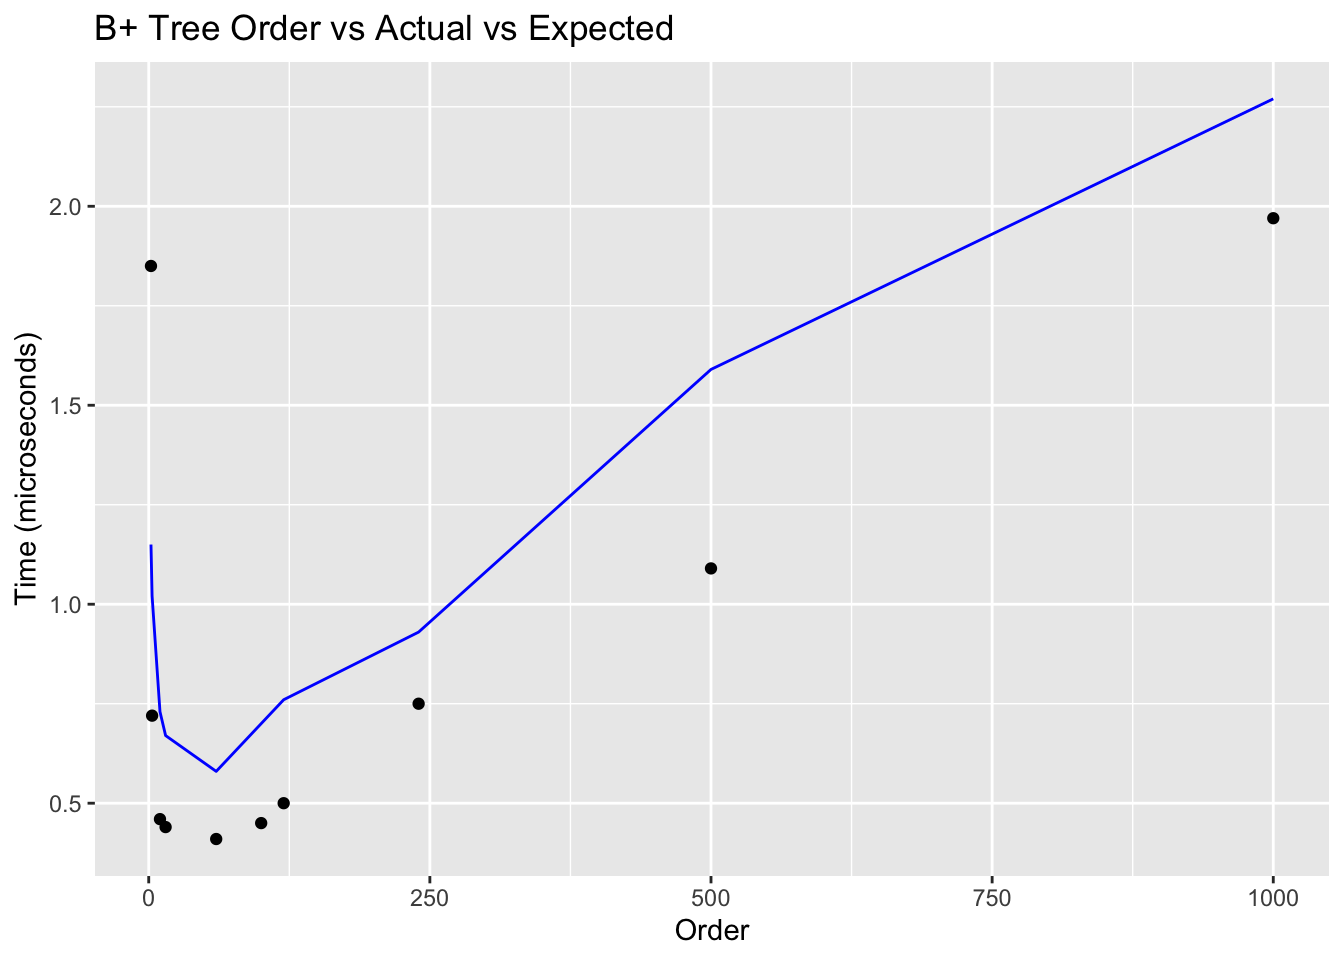
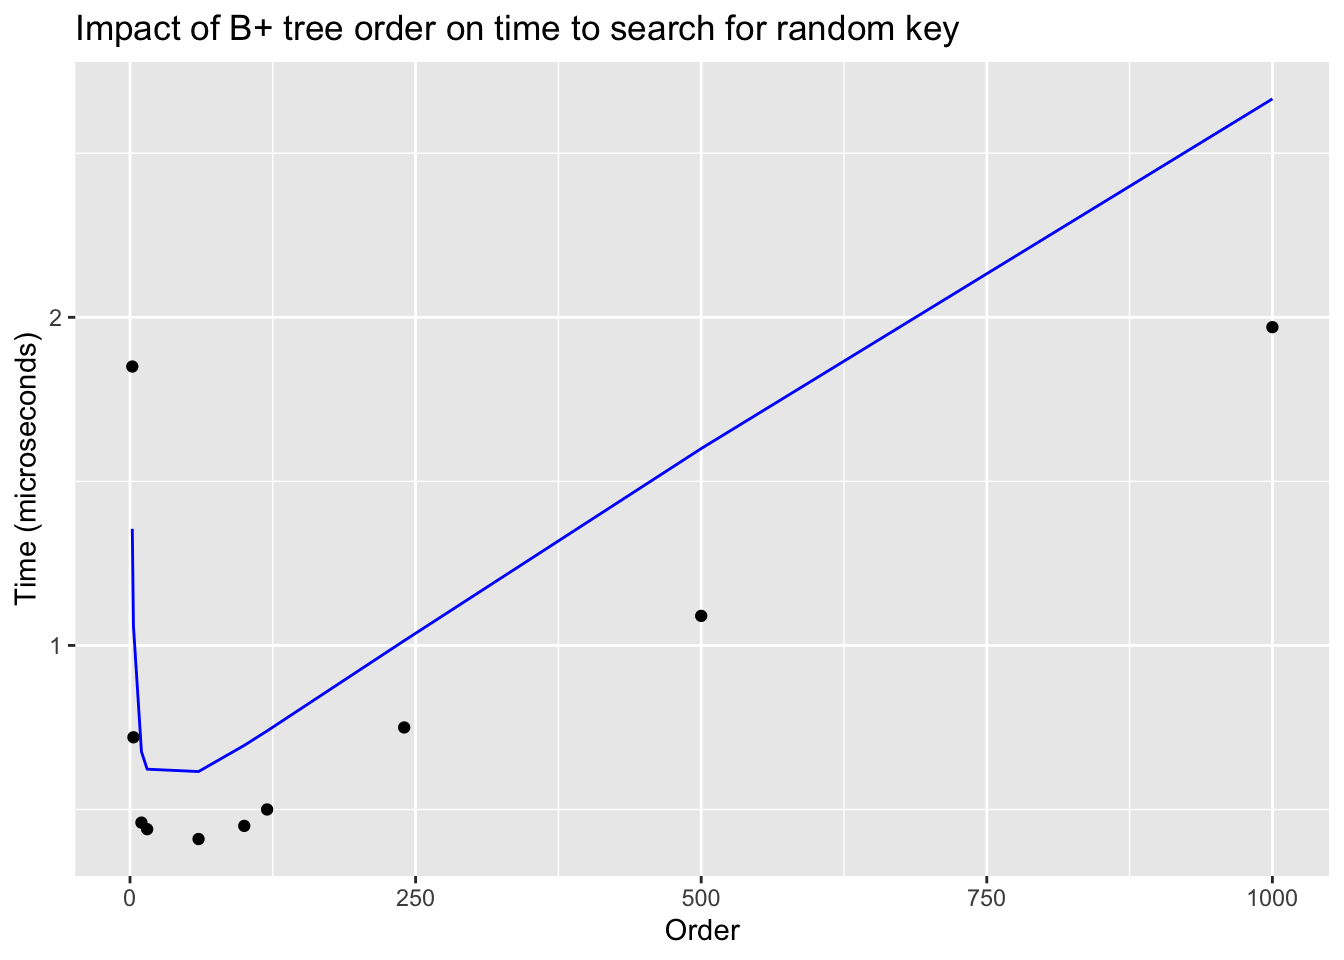
save

diff --git a/content/blog/2025-01-06-cpu-cache-napkin-math/index.html b/content/blog/2025-01-06-cpu-cache-napkin-math/index.html
@@ -28,7 +28,7 @@ output:
 <ul>
 <li><a href="#false-sharing-benchmark" id="toc-false-sharing-benchmark">false sharing benchmark</a></li>
 </ul></li>
-<li><a href="#b-tree-order-tuning" id="toc-b-tree-order-tuning">B+ Tree order tuning</a></li>
+<li><a href="#b-tree-order-tuning" id="toc-b-tree-order-tuning">B+ Tree Order Tuning</a></li>
 </ul>
 </div>
 
@@ -351,50 +351,97 @@ Difference: 0.013884 seconds</code></pre>
 </div>
 </div>
 <div id="b-tree-order-tuning" class="section level2">
-<h2>B+ Tree order tuning</h2>
+<h2>B+ Tree Order Tuning</h2>
 <p>B+ trees are a fun test-bed to study cache performance
-because they combine random and sequential access patterns.
-Within a node, keys are stored in sorted order and scanned sequentially.
-Each node also has pointers to child nodes, which require a random access
-to follow.</p>
-<p>Check out <a href="https://cs186berkeley.net/notes/note4/">this resource</a>
-for more details on the properties and implementation of B+ trees.</p>
-<p>For our purposes, let’s find the order with the optimal search performance
-for a B+ tree with 1,000,000 keys.
-The minimum number of keys in a node is called the order of the B+ tree
-(the max is 2 times the order).</p>
+because they combine sequential and random access patterns.
+If you aren’t familar with B+ trees, check out <a href="https://cs186berkeley.net/notes/note4/">this resource</a></p>
+<p>Let’s take search: say we want to find the key 55.
+Within a node, keys are already sorted and the algorithm
+scans sequentially until the first key greater than 55 is found
+(blue arrow).
+At that point, we follow the child pointer, which likely requires
+a random memory access (green arrow), and it starts scanning again.</p>
+<p><img src="bptree.svg" /></p>
+<p>This B+ tree has order 9: that’s the maximum number of keys
+in a node. Adjusting this parameter changes the height of the tree,
+and the number of keys we have to scan through. A B+ tree of order 1
+is like a binary search tree and one with infinite order is an array
+(if you like thinking about extremes).</p>
+<p>Sequential access and comparsion is fast:
+the next key is likely to be in the cache and
+there’s only a single integer comparsion per key
+I’ll estimate this to take about 1ns per key.</p>
 <blockquote>
-<p>Note: This is not necessarily something you’d do in real life.
-For starters, B+ trees might not even be stored in memory:
-they could stored on disk with access managed by a buffer pool.
-Also, the purpose of a B+ is to be effective at searches, inserts,
-deletes, and scans. Searching is only one of them, so you
-wouldn’t want to over-optimize it.</p>
+<p>There are some exciting mechanisms behind the scenes
+that make sequential access fast.
+For example, one thing that might limit sequential scan
+speeds is fetching the next cache line.<br />
+After scanning through 64 bytes, the CPU must fetch the
+next line, which might be in main memory.
+So you might think you need to add 100ns per 64 bytes processed.
+Fortunately, modern CPUs have a cache prefetcher that can predict
+the next line and fetch it before it is needed,
+making the 1ns per key estimate a good one.</p>
 </blockquote>
-<p>Let’s say we have a B+ tree with 1,000,000 keys. Let’s estimate the number of
-random accesses. Let <span class="math inline">\(b\)</span> be the order.</p>
+<p>Following a pointer is expensive.
+&gt; Likewise, if you are scanning across many pages, you might cause
+&gt; another type of cache miss in the Translation Lookaside Buffer (TLB),
+&gt; which could cause another 3-4 main memory loads.
+&gt; In practice, modern CPUs have a cache prefetcher that can predict
+&gt; the next line and fetch it before it is needed. CPUs are very good at
+&gt; sequential data access, so I’ll stick with 1ns per key for now.</p>
+<p>Following a pointer is expensive.
+The pointer’s data is unlikely to be in the cache,
+so the the data will have to be fetched from main memory.
+I’ll estimate the time to load a pointer’s data to be 100ns.</p>
+<p>Even though following pointers are expensive,
+the total number of pointers we have to follow is
+always “small”.
+1 trillion keys have less than 30 levels, regardless of the order.
+Finding any key in that situation would only take about
+30 * 100ns = 3 microseconds.</p>
+<p>This creates a trade-off: if we have a small order,
+the total number of instructions are smaller, but we have to
+follow more pointers.
+On the other hand, sequential scanning adds up:
+it would take 16 minutes to scan 1 trillion keys.</p>
+<p>For fun let’s estimate the optimal order for a B+ tree with 100,000,000 keys,
+and then compare it to a benchmark I ran on on my M3 Macbook Air.</p>
+<blockquote>
+<p>This analysis focuses on in-memory search performance to isolate and understand cache
+and random access performance. In the real-world, B+ trees
+do a lot more than search, which is why they are such a useful
+data structure: they balance efficienct search, insertion, and deletion
+and work well with computer architecture.</p>
+</blockquote>
+<p>Let’s say we have a B+ tree with 100,000,000 keys.
+If we let <span class="math inline">\(b\)</span> be the order, then we can estiamte
+the time to search for a random key as follows:</p>
 <p><span class="math display">\[
 \begin{align*}
-\text{Height} &amp;= \log_{2b}(1,000,000) \\
-\text{Time} &amp;= (\text{Height} \times \text{pointer_chase_cost}) + (\text{Height} \times b \times \text{comparison_cost})
+\text{Height} &amp;= \log_{b}(100{,}000{,}000) \\
+\text{Time} &amp;= (\text{Height} \times \text{pointer_chase_cost}) + (\text{Height} \times b / 2 \times \text{comparison_cost})
 \end{align*}
 \]</span></p>
-<p>I implemented a subset of the B+ tree data structure in C
-<a href="https://github.com/tmastny/cache/tree/main/bptree">here</a>.</p>
-<p>I wanted to see how the order of the B+ tree affected the
-search performance.</p>
-<pre><code>## # A tibble: 10 × 5
-##    order actual expected height  time
-##    &lt;dbl&gt;  &lt;dbl&gt;    &lt;dbl&gt;  &lt;dbl&gt; &lt;dbl&gt;
-##  1     2   1.85     1.15   9.97 1.02 
-##  2     3   0.72     1.02   7.71 0.794
-##  3    10   0.46     0.73   4.61 0.507
-##  4    15   0.44     0.67   4.06 0.467
-##  5    60   0.41     0.58   2.89 0.462
-##  6   100   0.45     0.7    2.61 0.522
-##  7   120   0.5      0.76   2.52 0.555
-##  8   240   0.75     0.93   2.24 0.761
-##  9   500   1.09     1.59   2    1.2  
-## 10  1000   1.97     2.27   1.82 2.00</code></pre>
+<p>To compare against a benchmark, I implemented search and bulk insertion
+for a B+ tree in C
+<a href="https://github.com/tmastny/cache/tree/main/bptree">here</a>.<a href="#fn1" class="footnote-ref" id="fnref1"><sup>1</sup></a> The B+ tree was bulk loaded keys 1-100,000,000.
+Then I timed 1,000,000 searches for random keys and took the average.</p>
+<p>Here are the results.</p>
 <p><img src="figure-html/unnamed-chunk-1-1.png" width="672" /></p>
+<p>Our basic model does really well at predicting the measured time!
+The prediction (blue line) appears off by a constant factor,
+and it grows a little faster than the benchmark for larger orders.
+More importantly, it captures the trade-off between sequential
+scanning and pointer chasing, matching the benchmark’s
+U-shaped curve with both the optimal range around 20-100
+and the performance degradation at the extremes.</p>
+</div>
+<div class="footnotes footnotes-end-of-document">
+<hr />
+<ol>
+<li id="fn1"><p>
+In the source code, I refer to the order as the minimum number of keys per node, instead of the maximum.
+As far as I can tell, they are used interchangeably in various sources.<a href="#fnref1" class="footnote-back">↩</a></p></li>
+</ol>
 </div>
